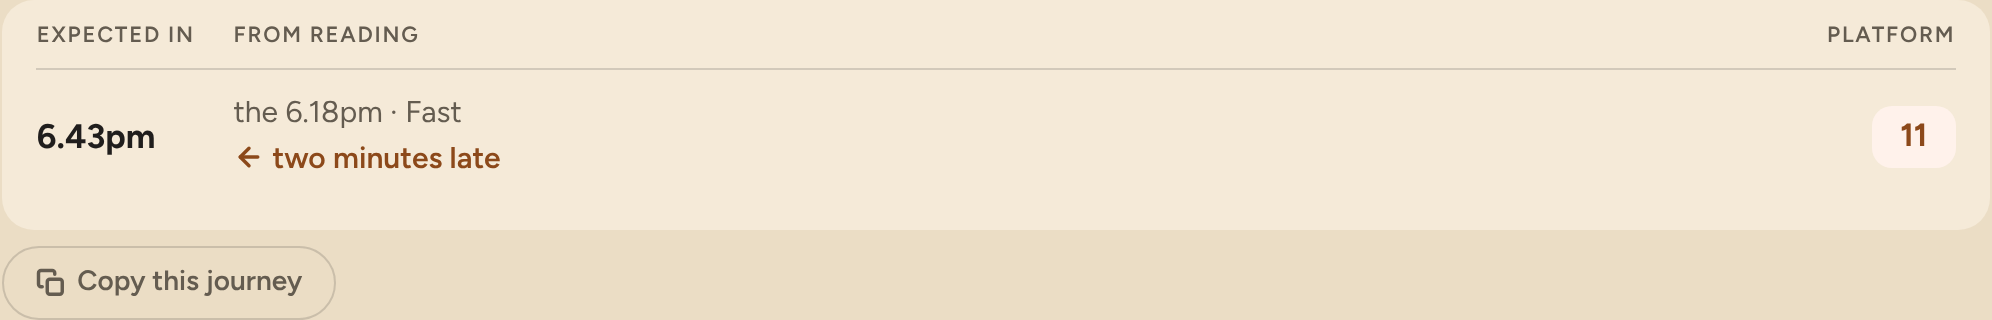
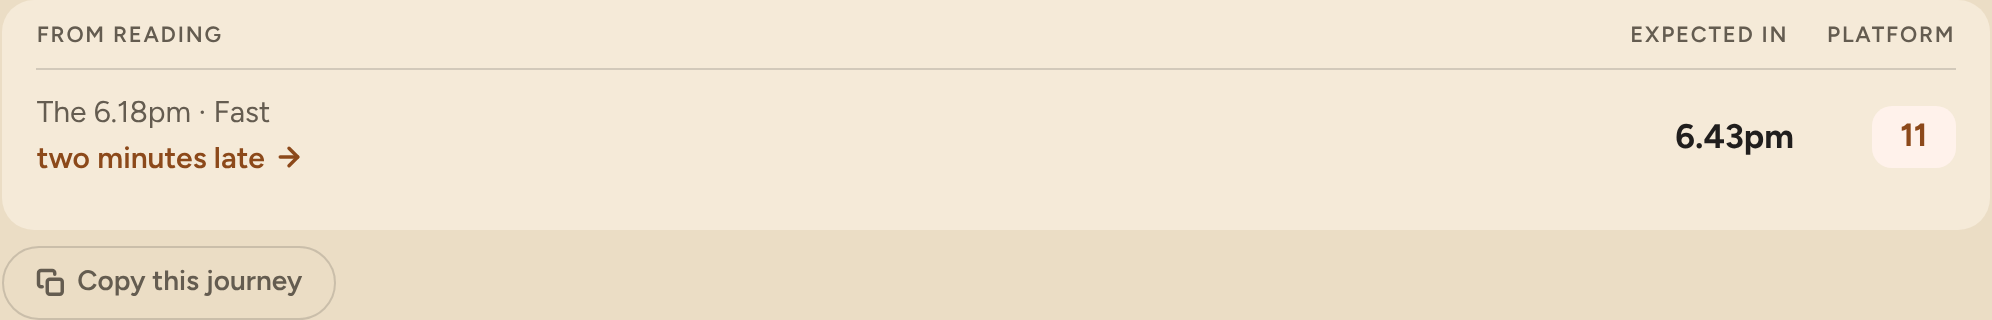
Message home box: the train first, then when it's expected in, arrow pointing right
Claude-Session: https://claude.ai/code/session_01BsvHLJXmw3oprEBv3k7dfG

diff --git a/src/components/MessageHome.tsx b/src/components/MessageHome.tsx
@@ -7,12 +7,11 @@ import { Fragment, useMemo, useState } from 'react'
 import { clock, diff, type Analysis } from '../lib/analyse.ts'
 import { mineOf, shownTrains, whichTrain } from '../lib/connection.ts'
 import { homeFor } from '../lib/messageHome.ts'
-import { dateShort, kindOf, type ListPicture, t12 } from '../lib/sentences.ts'
+import { dateShort, kindOf, t12 } from '../lib/sentences.ts'
 import { rowEnd, useGridCols } from '../lib/useGridCols.ts'
 import { BoxShare } from './BoxShare.tsx'
 import { FindMyTrain } from './FindMyTrain.tsx'
 import { Icon } from './Icon.tsx'
-import { Board } from './JourneyView.tsx'
 
 export function MessageHome({ a }: { a: Analysis }) {
   const [mineId, setMineId] = useState<string | null>(null)
@@ -28,14 +27,30 @@ export function MessageHome({ a }: { a: Analysis }) {
   if (!all.length) return null
   const pick = all.find(({ m }) => m.id === mineId)
   const home = pick ? homeFor(a, pick.s, a.now) : null
-  const from = a.from.toUpperCase()
-  const board: ListPicture | null = home && {
-    kicker: '', title: '', when: '', one: null, note: null, words: { text: '', title: '', hash: '' },
-    heads: home.fromArr ? ['EXPECTED IN', `FROM ${from}`, 'PLATFORM'] : ['EXPECTED IN', `FROM ${from}`], rows: [home.row],
-  }
-  const reply = !home || !board ? null : (
+  // The train's line, laid out for this box (John, November 26th 2026, on his phone): the train first ("The
+  // 5.05pm · Fast", and how late with an arrow pointing on to the time), then when it's expected in, then the
+  // platform, read left to right.
+  const r = home?.row
+  const reply = !home || !r ? null : (
     <div className="tap-reply">
-      <div className="home-box"><Board p={board} /></div>
+      <div className="home-box">
+        <div className="board" role="table">
+          <div className="bhead" role="row">
+            <span role="columnheader">From {a.from}</span>
+            <span role="columnheader">Expected in</span>
+            {home.fromArr && <span role="columnheader" className="bright">Platform</span>}
+          </div>
+          <div className="brow" role="row">
+            <span className="bmid" role="cell">
+              <span>{r.mid}</span>
+              {r.late && <span className={r.arrow ? 'blate own nw' : 'blate own'}>{r.late}{r.arrow && <span className="barrow after"><Icon name="right" /></span>}</span>}
+            </span>
+            <span className={r.time === '?' ? 'bt q' : 'bt'} role="cell">{r.time}</span>
+            {r.platform && <span className="badge" role="cell">{r.platform}</span>}
+            {r.noPlat && <span className="bnoplat" role="cell">not yet</span>}
+          </div>
+        </div>
+      </div>
       <BoxShare taken={a.taken} w={{
         kicker: 'MY TRAIN', heading: home.heading, text: home.line, sent: home.sent, what: 'this journey',
         file: `trainchecker-my-train-${a.fromCrs}-${a.toCrs}.png`, hash: `#${a.fromCrs}-${a.toCrs}`,

diff --git a/src/styles/global.css b/src/styles/global.css
@@ -331,6 +331,11 @@ details.trains-fold { margin-top: var(--space-3); }
 /* Message home: the train's line from the arrivals board, in a box (November 26th 2026). */
 .home .home-box { padding: var(--space-2) var(--space-4) var(--space-3); border-radius: var(--radius-md); background: var(--color-bg); }
 .home .home-box .board { margin-top: 0; }
+/* Message home's box: the train first, then when it's expected in (John, November 26th 2026). */
+.home .home-box .bhead, .home .home-box .brow { grid-template-columns: 1fr 5.4rem auto; }
+.home .home-box .bhead > span:nth-child(2) { white-space: nowrap; }
+.blate .barrow.after svg { margin-right: 0; margin-left: 0.3em; }
+.home .home-box .blate.nw { white-space: nowrap; }
 @media (max-width: 720px) { .connect .cpick { grid-template-columns: 1fr; } .connect .cpick > .btn { margin-top: 0; } }
 
 /* Directions to a platform: tap a badge (John, November 24th 2026, option A). */

diff --git a/src/lib/messageHome.ts b/src/lib/messageHome.ts
@@ -47,7 +47,8 @@ export function homeFor(a: Analysis, t: Train, now: string): Home {
   const heading = co ? `The ${t12(t.std)} ${co} train from ${from}` : `The ${t12(t.std)} from ${from}`
   const row: PicRow = {
     time: exp ? t12(exp) : '?',
-    mid: [`the ${t12(t.std)}`, kind].filter(Boolean).join(' · '),
+    // "The 5.05pm" first in Message home's box, the time it's expected in after it (John, November 26th 2026).
+    mid: [`The ${t12(t.std)}`, kind].filter(Boolean).join(' · '),
     late: !exp ? `delayed, was due ${t12(sta)}, no new time yet` : arrived ? 'arrived' : late > 0 ? `${minutes(late)} late` : '',
     ...(late > 0 && exp && !arrived ? { lateBy: late, arrow: true } : {}),
     ...(twin ? (platform ? { platform } : { noPlat: true }) : {}),

diff --git a/src/components/Icon.tsx b/src/components/Icon.tsx
@@ -6,6 +6,7 @@ const PATHS = {
   copy: <><rect x="9" y="9" width="12" height="12" rx="2" /><path d="M5 15H4a2 2 0 0 1-2-2V4a2 2 0 0 1 2-2h9a2 2 0 0 1 2 2v1" /></>,
   down: <path d="m6 9 6 6 6-6" />,
   left: <><path d="m12 19-7-7 7-7" /><path d="M19 12H5" /></>,
+  right: <><path d="M5 12h14" /><path d="m12 5 7 7-7 7" /></>,
   clear: <><path d="M18 6 6 18" /><path d="m6 6 12 12" /></>,
   locate: <><path d="M2 12h3" /><path d="M19 12h3" /><path d="M12 2v3" /><path d="M12 19v3" /><circle cx="12" cy="12" r="7" /><circle cx="12" cy="12" r="3" /></>,
   refresh: <><path d="M3 12a9 9 0 0 1 9-9 9.75 9.75 0 0 1 6.74 2.74L21 8" /><path d="M21 3v5h-5" /><path d="M21 12a9 9 0 0 1-9 9 9.75 9.75 0 0 1-6.74-2.74L3 16" /><path d="M8 16H3v5" /></>,

diff --git a/CLAUDE.md b/CLAUDE.md
@@ -112,6 +112,11 @@ given its own branch). Before committing there, run
   London Paddington at 6.21pm, on platform 12."; the message keeps "which got into…" (John, for variety). Option B
   mock-up removed. Checks: check-home 28, all checks, `tsc -b`, lint, build; both preview runs again: no errors, no
   sideways scroll.
+- **John (iPhone, the preview):** in Message home's box the first two columns swapped: "FROM READING" first ("The
+  5.05pm · Fast", capital T, and how late with the arrow now pointing right, on to the time), then "EXPECTED IN",
+  then "PLATFORM". Its own markup in `MessageHome.tsx` (the shared `Board` unchanged elsewhere); `Icon` "right";
+  `.home .home-box` columns in `global.css`. Checks, `tsc -b`, lint, build; `message-home/shoot.mjs` at 390px dark and
+  1200px light: the arrow on the line with its words, no errors, no sideways scroll.
 
 ### November 26th 2026: "Find my train from my location", fuller lists, "expected", a refresh that keeps your place; live (branch `claude/happy-darwin-mmnd4m`, merged the same day; Claude Code)
 
